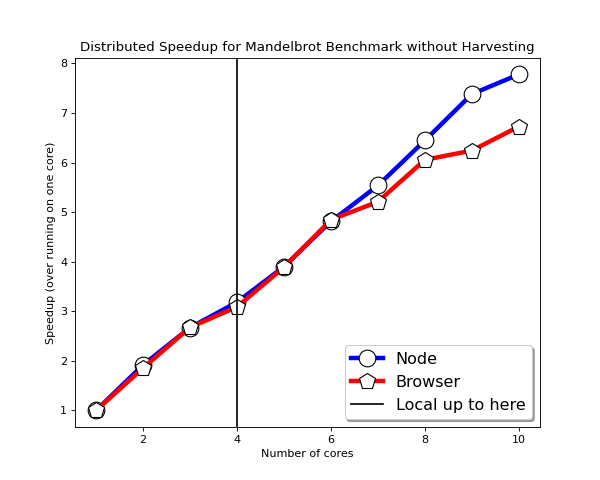
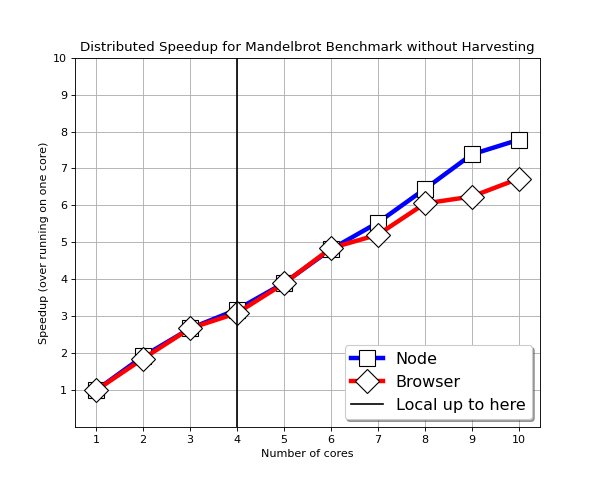
Progress on visualisations

diff --git a/benchmarks/visualisations/speedupgraph.py b/benchmarks/visualisations/speedupgraph.py
@@ -1,20 +1,18 @@
-import pandas
 import matplotlib.pyplot as plt
 from matplotlib.pyplot import figure
 import numpy as np
-import os
-import re
+from scipy.stats import sem    
 
 ######
 #NODE
 ######
 keys = [1,2,3,4]
-mandebrot_node_data = {}
+mandelbrot_noharvest_data = {}
 mandelbrot_withharvest_data = {}
 piprecision_data = {}
 trapezoid_data = {}
 for processes in keys:
-    mandebrot_node_data[processes] = []
+    mandelbrot_noharvest_data[processes] = []
     mandelbrot_withharvest_data[processes] = []
     piprecision_data[processes] = []
     trapezoid_data[processes] = []
@@ -22,7 +20,7 @@ for processes in keys:
     #Scrape node data
     with open(f'../node/parallel/mandelbrot/results/mandelbrotnoharvest_{processes}worker.txt') as f:
         for line in f.readlines():
-            mandebrot_node_data[processes].append(int(line.strip()))
+            mandelbrot_noharvest_data[processes].append(int(line.strip()))
     with open(f'../node/parallel/mandelbrot/results/mandelbrot_{processes}worker.txt') as f:
         for line in f.readlines():
             mandelbrot_withharvest_data[processes].append(int(line.strip()))
@@ -32,28 +30,33 @@ for processes in keys:
     with open(f'../node/parallel/results/trapezoid_{processes}worker.txt') as f:
         for line in f.readlines():
             trapezoid_data[processes].append(int(line.strip()))
-            
-            
-mandelbrot_node_speedup = [np.average(mandebrot_node_data[1])/np.average(mandebrot_node_data[key]) for key in keys]
+    
+sample_speedup_data = []
+for n in np.arange(0, len(mandelbrot_noharvest_data[1])):
+    sample_speedup_data.append(mandelbrot_noharvest_data[1][n]/mandelbrot_noharvest_data[2][n])
+    
+mandelbrot_noharvest_speedup = [np.average(mandelbrot_noharvest_data[1])/np.average(mandelbrot_noharvest_data[key]) for key in keys]
 mandelbrot_withharvest_speedup = [np.average(mandelbrot_withharvest_data[1])/np.average(mandelbrot_withharvest_data[key]) for key in keys]
 piprecision_speedup = [np.average(piprecision_data[1])/np.average(piprecision_data[key]) for key in keys]
 trapezoid_speedup = [np.average(trapezoid_data[1])/np.average(trapezoid_data[key]) for key in keys]
-
 figure(figsize=(7.5, 6), dpi=80)
 
-plt.plot(keys, mandelbrot_node_speedup, '-o', color='blue',
+plt.plot(keys, mandelbrot_noharvest_speedup, '-s', color='blue',
         markersize=15, linewidth=4,
         markerfacecolor='white',
         markeredgecolor='black',
         markeredgewidth=1, label='Mandelbrot no harvest');
 
-plt.plot(keys, mandelbrot_withharvest_speedup, '-h', color='purple',
+# plt.errorbar(keys, mandelbrot_noharvest_speedup, yerr = mandelbrot_noharvest_error,fmt='o',ecolor ='blue',color='blue')
+
+plt.plot(keys, mandelbrot_withharvest_speedup, '-P', color='purple',
         markersize=15, linewidth=4,
         markerfacecolor='white',
         markeredgecolor='black',
         markeredgewidth=1, label='Mandelbrot with harvest');
 
-plt.plot(keys, piprecision_speedup, '-p', color='red',
+
+plt.plot(keys, piprecision_speedup, '-D', color='red',
     markersize=15, linewidth=4,
     markerfacecolor='white',
     markeredgecolor='black',
@@ -71,6 +74,11 @@ plt.locator_params(axis="x", integer=True, tight=True)
 plt.title('Node Speedup for Parallel Benchmarks')
 plt.xlabel('Number of cores')
 plt.ylabel('Speedup (over running on one core)')
+ax = plt.gca()
+ax.set_ylim([0.7, 4])
+plt.grid()
+plt.xticks(keys, keys)
+plt.yticks(keys, keys)
 plt.savefig('node_speedup.png')
 
 def scrape_log_line(line, search):
@@ -86,13 +94,13 @@ def scrape_log_line(line, search):
 #BROWSER 
 #########
 keys = [1,2,3,4]
-mandebrot_node_data = {}
+mandelbrot_noharvest_data = {}
 mandelbrot_withharvest_data = {}
 piprecision_data = {}
 trapezoid_data = {}
 
 for processes in keys:
-    mandebrot_node_data[processes] = []
+    mandelbrot_noharvest_data[processes] = []
     mandelbrot_withharvest_data[processes] = []
     piprecision_data[processes] = []
     trapezoid_data[processes] = []
@@ -107,7 +115,7 @@ for processes in keys:
         for line in f.readlines():
             reading = scrape_log_line(line, 'source: http://localhost:3000/parallel/mandelbrot/')
             if reading is not None:
-                mandebrot_node_data[processes].append(reading)
+                mandelbrot_noharvest_data[processes].append(reading)
     with open(f'../browser/parallel/results/piprecision_{processes}worker.log') as f:
         for line in f.readlines():            
             reading = scrape_log_line(line, 'source: http://localhost:3000/parallel/')
@@ -119,26 +127,26 @@ for processes in keys:
             if reading is not None:
                 trapezoid_data[processes].append(reading)
             
-mandelbrot_node_speedup = [np.average(mandebrot_node_data[1])/np.average(mandebrot_node_data[key]) for key in keys]
+mandelbrot_noharvest_speedup = [np.average(mandelbrot_noharvest_data[1])/np.average(mandelbrot_noharvest_data[key]) for key in keys]
 mandelbrot_withharvest_speedup = [np.average(mandelbrot_withharvest_data[1])/np.average(mandelbrot_withharvest_data[key]) for key in keys]
 piprecision_speedup = [np.average(piprecision_data[1])/np.average(piprecision_data[key]) for key in keys]
 trapezoid_speedup = [np.average(trapezoid_data[1])/np.average(trapezoid_data[key]) for key in keys]
 
 figure(figsize=(7.5, 6), dpi=80)
 
-plt.plot(keys, mandelbrot_node_speedup, '-o', color='blue',
+plt.plot(keys, mandelbrot_noharvest_speedup, '-s', color='blue',
         markersize=15, linewidth=4,
         markerfacecolor='white',
         markeredgecolor='black',
         markeredgewidth=1, label='Mandelbrot no harvest');
 
-plt.plot(keys, mandelbrot_withharvest_speedup, '-h', color='purple',
+plt.plot(keys, mandelbrot_withharvest_speedup, '-P', color='purple',
         markersize=15, linewidth=4,
         markerfacecolor='white',
         markeredgecolor='black',
         markeredgewidth=1, label='Mandelbrot with harvest');
 
-plt.plot(keys, piprecision_speedup, '-p', color='red',
+plt.plot(keys, piprecision_speedup, '-D', color='red',
     markersize=15, linewidth=4,
     markerfacecolor='white',
     markeredgecolor='black',
@@ -156,23 +164,28 @@ plt.locator_params(axis="x", integer=True, tight=True)
 plt.title('Browser Speedup for Parallel Benchmarks')
 plt.xlabel('Number of cores')
 plt.ylabel('Speedup (over running on one core)')
+ax = plt.gca()
+ax.set_ylim([0.7, 4])
+plt.grid()
+plt.xticks(keys, keys)
+plt.yticks(keys, keys)
 plt.savefig('browser_speedup.png')
 
 #############
 #DISTRIBUTED
 #############
 keys = [1,2,3,4,5,6,7,8,9,10]
-mandebrot_node_data = {}
+mandelbrot_noharvest_data = {}
 mandelbrot_browser_data = {}
 
 for processes in keys:
-    mandebrot_node_data[processes] = []
+    mandelbrot_noharvest_data[processes] = []
     mandelbrot_browser_data[processes] = []
     
     #Scrape node data
     with open(f'../node/parallel/mandelbrot/distributed-results/mandelbrotnoharvest_{processes}worker.txt') as f:
         for line in f.readlines():
-            mandebrot_node_data[processes].append(int(line.strip()))
+            mandelbrot_noharvest_data[processes].append(int(line.strip()))
             
     #Scrape browser data
     with open(f'../browser/parallel/mandelbrot/distributed-results/mandelbrotnoharvest_{processes}worker.log') as f:
@@ -182,18 +195,18 @@ for processes in keys:
                 mandelbrot_browser_data[processes].append(reading)
             
             
-mandelbrot_node_speedup = [np.average(mandebrot_node_data[1])/np.average(mandebrot_node_data[key]) for key in keys]
+mandelbrot_noharvest_speedup = [np.average(mandelbrot_noharvest_data[1])/np.average(mandelbrot_noharvest_data[key]) for key in keys]
 mandelbrot_browser_speedup = [np.average(mandelbrot_browser_data[1])/np.average(mandelbrot_browser_data[key]) for key in keys]
 
 figure(figsize=(7.5, 6), dpi=80)
 
-plt.plot(keys, mandelbrot_node_speedup, '-o', color='blue',
+plt.plot(keys, mandelbrot_noharvest_speedup, '-s', color='blue',
         markersize=15, linewidth=4,
         markerfacecolor='white',
         markeredgecolor='black',
         markeredgewidth=1, label='Node');
 
-plt.plot(keys, mandelbrot_browser_speedup, '-p', color='red',
+plt.plot(keys, mandelbrot_browser_speedup, '-D', color='red',
     markersize=15, linewidth=4,
     markerfacecolor='white',
     markeredgecolor='black',
@@ -205,4 +218,9 @@ plt.locator_params(axis="x", integer=True, tight=True)
 plt.title('Distributed Speedup for Mandelbrot Benchmark without Harvesting')
 plt.xlabel('Number of cores')
 plt.ylabel('Speedup (over running on one core)')
+plt.grid()
+ax = plt.gca()
+ax.set_ylim([0, 10])
+plt.xticks(keys, keys)
+plt.yticks(keys, keys)
 plt.savefig('distributed_node_speedup.png')

diff --git a/benchmarks/visualisations/micro.py b/benchmarks/visualisations/micro.py
@@ -50,5 +50,6 @@ plt.xticks(X_axis, list(node_data.keys()), rotation=45)
 plt.title('Micro-Benchmarks Node.js and Browser Comparision')
 plt.xlabel('Benchmark')
 plt.ylabel('Time to execute (ms)')
+plt.grid()
 plt.legend()
 plt.savefig('micro.png')

diff --git a/benchmarks/visualisations/linkcomparision.py b/benchmarks/visualisations/linkcomparision.py
@@ -65,5 +65,6 @@ plt.title('Comparision of Communication Links')
 plt.xlabel('Benchmark')
 plt.ylabel('Time to execute benchmark (ms)')
 plt.legend()
+plt.grid()
 
 plt.savefig('link.png')
